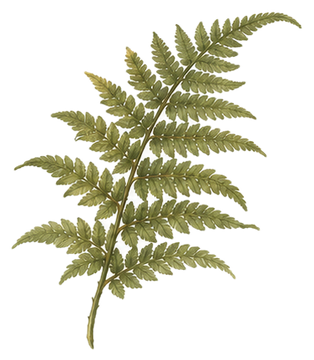
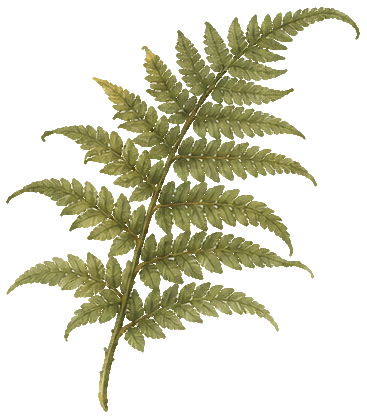
style(trang-chu): cắt lá không lỗi và thêm dây leo như ảnh tham chiếu
- Cắt lá lại: giữ khoảng nền kẹt trong suốt (trước đây bị tô đặc thành mảng trắng) và làm sạch viền trắng.
- Thêm bộ dây leo dài (dây dọc, dây vòm, dây ngang) từ sheet ChatGPT.
- Sidebar: dây leo quấn hai mép, dây vòm trên đầu, viền vàng.
- Hero: dây ngang chạy trên mép trên, viền vàng.
- "App có gì": dây ngang dưới tiêu đề, thẻ có viền vàng.

Changed region(s): [[0.0, 0.0, 1.0, 1.0], [0.8312, 0.6417, 0.8599, 0.6722]]

diff --git a/src/components/layout/FrescoBackdrop.tsx b/src/components/layout/FrescoBackdrop.tsx
@@ -23,18 +23,34 @@ export function FrescoSidebarBackdrop() {
         style={StyleSheet.absoluteFill}
       />
       <View style={[StyleSheet.absoluteFill, { backgroundColor: 'rgba(16,30,22,0.6)' }]} />
-      {/* Cây cỏ leo qua thanh bên: dây thường xuân rủ dưới, cành nguyệt quế ở mép phải. */}
+      {/* Dây leo quấn theo hai mép thanh bên, dây vòm phủ đầu thanh bên, như ảnh tham chiếu. */}
       <Image
-        source={{ uri: '/home/foliage/fol-ivy-hang.png' }}
+        source={{ uri: '/home/foliage/vine-vertical.png' }}
         resizeMode="contain"
         accessibilityIgnoresInvertColors
-        style={{ position: 'absolute', left: -20, bottom: 40, width: 170, height: 170, opacity: 0.75 }}
+        style={{ position: 'absolute', left: -44, top: 110, width: 96, height: 300, opacity: 0.85 }}
       />
       <Image
-        source={{ uri: '/home/foliage/fol-laurel.png' }}
+        source={{ uri: '/home/foliage/vine-vertical.png' }}
         resizeMode="contain"
         accessibilityIgnoresInvertColors
-        style={{ position: 'absolute', right: -34, top: 120, width: 120, height: 120, opacity: 0.45 }}
+        style={{ position: 'absolute', left: -44, bottom: 80, width: 96, height: 300, opacity: 0.8 }}
+      />
+      <Image
+        source={{ uri: '/home/foliage/vine-vertical.png' }}
+        resizeMode="contain"
+        accessibilityIgnoresInvertColors
+        style={{ position: 'absolute', right: -14, top: 260, width: 96, height: 300, opacity: 0.8, transform: [{ scaleX: -1 }] }}
+      />
+      <Image
+        source={{ uri: '/home/foliage/vine-arch.png' }}
+        resizeMode="contain"
+        accessibilityIgnoresInvertColors
+        style={{ position: 'absolute', left: 10, top: -10, width: 230, height: 110, opacity: 0.9 }}
+      />
+      <View
+        pointerEvents="none"
+        style={{ position: 'absolute', top: 0, left: 0, right: 0, bottom: 0, borderWidth: 1.5, borderColor: '#C9A45C', borderRadius: 16 }}
       />
     </View>
   );

diff --git a/app/intro.tsx b/app/intro.tsx
@@ -325,6 +325,7 @@ export default function IntroScreen() {
         </Text>
       </Appear>
 
+      <FrescoVineDivider />
       <View className="mt-5">
         <Grid columns={4} tabletColumns={3} mobileColumns={2} gap={12}>
           {AREAS.map((area, index) => (
@@ -551,8 +552,8 @@ function FrescoAreaCard({ area }: { area: Area }) {
           borderRadius: 18,
           overflow: 'hidden',
           backgroundColor: '#F4EFE3',
-          borderWidth: 1,
-          borderColor: 'rgba(40,58,44,0.14)',
+          borderWidth: 1.5,
+          borderColor: '#C9A45C',
         }}
       >
         <View style={{ height: wide ? 168 : 116, overflow: 'hidden' }}>
@@ -579,6 +580,28 @@ function FrescoAreaCard({ area }: { area: Area }) {
         </View>
       </View>
     </PressScale>
+  );
+}
+
+/** Dây leo dài chạy ngang dưới tiêu đề "App có gì", chỉ hiện ở theme mặc định (vườn tàn tích). */
+function FrescoVineDivider() {
+  const fresco = useSidebarTheme().themeConfig.id === 'default';
+  if (!fresco) return null;
+  return (
+    <View style={{ flexDirection: 'row', height: 110, marginTop: 10 }}>
+      <Image
+        source={{ uri: '/home/foliage/vine-garland.png' }}
+        resizeMode="contain"
+        accessibilityIgnoresInvertColors
+        style={{ flex: 1, height: 110, opacity: 0.95 }}
+      />
+      <Image
+        source={{ uri: '/home/foliage/vine-arch.png' }}
+        resizeMode="contain"
+        accessibilityIgnoresInvertColors
+        style={{ flex: 1, height: 110, opacity: 0.95 }}
+      />
+    </View>
   );
 }
 

diff --git a/src/components/home/FrescoHero.tsx b/src/components/home/FrescoHero.tsx
@@ -49,6 +49,8 @@ export function FrescoHero({
         borderRadius: radius,
         overflow: 'hidden',
         backgroundColor: MOSS,
+        borderWidth: 1.5,
+        borderColor: '#C9A45C',
         ...(Platform.OS === 'web' ? { boxShadow: '0 18px 40px rgba(22,36,28,0.3)' } : { elevation: 8 }),
       } as object}
     >
@@ -70,6 +72,13 @@ export function FrescoHero({
           start={{ x: 0, y: 0 }}
           end={{ x: 0, y: 1 }}
           style={{ position: 'absolute', top: 0, left: 0, right: 0, bottom: 0 }}
+        />
+        {/* Dây leo dài chạy dọc mép trên, như ảnh tham chiếu. */}
+        <Image
+          source={{ uri: '/home/foliage/vine-garland.png' }}
+          resizeMode="contain"
+          accessibilityIgnoresInvertColors
+          style={{ position: 'absolute', top: -30, left: wide ? 120 : 20, width: wide ? 560 : 300, height: wide ? 150 : 90, opacity: 0.9 }}
         />
         {/* Dây thường xuân rủ góc dưới-trái, dây cuốn góc trên-phải: cây cỏ leo lên khung hình. */}
         <Image
